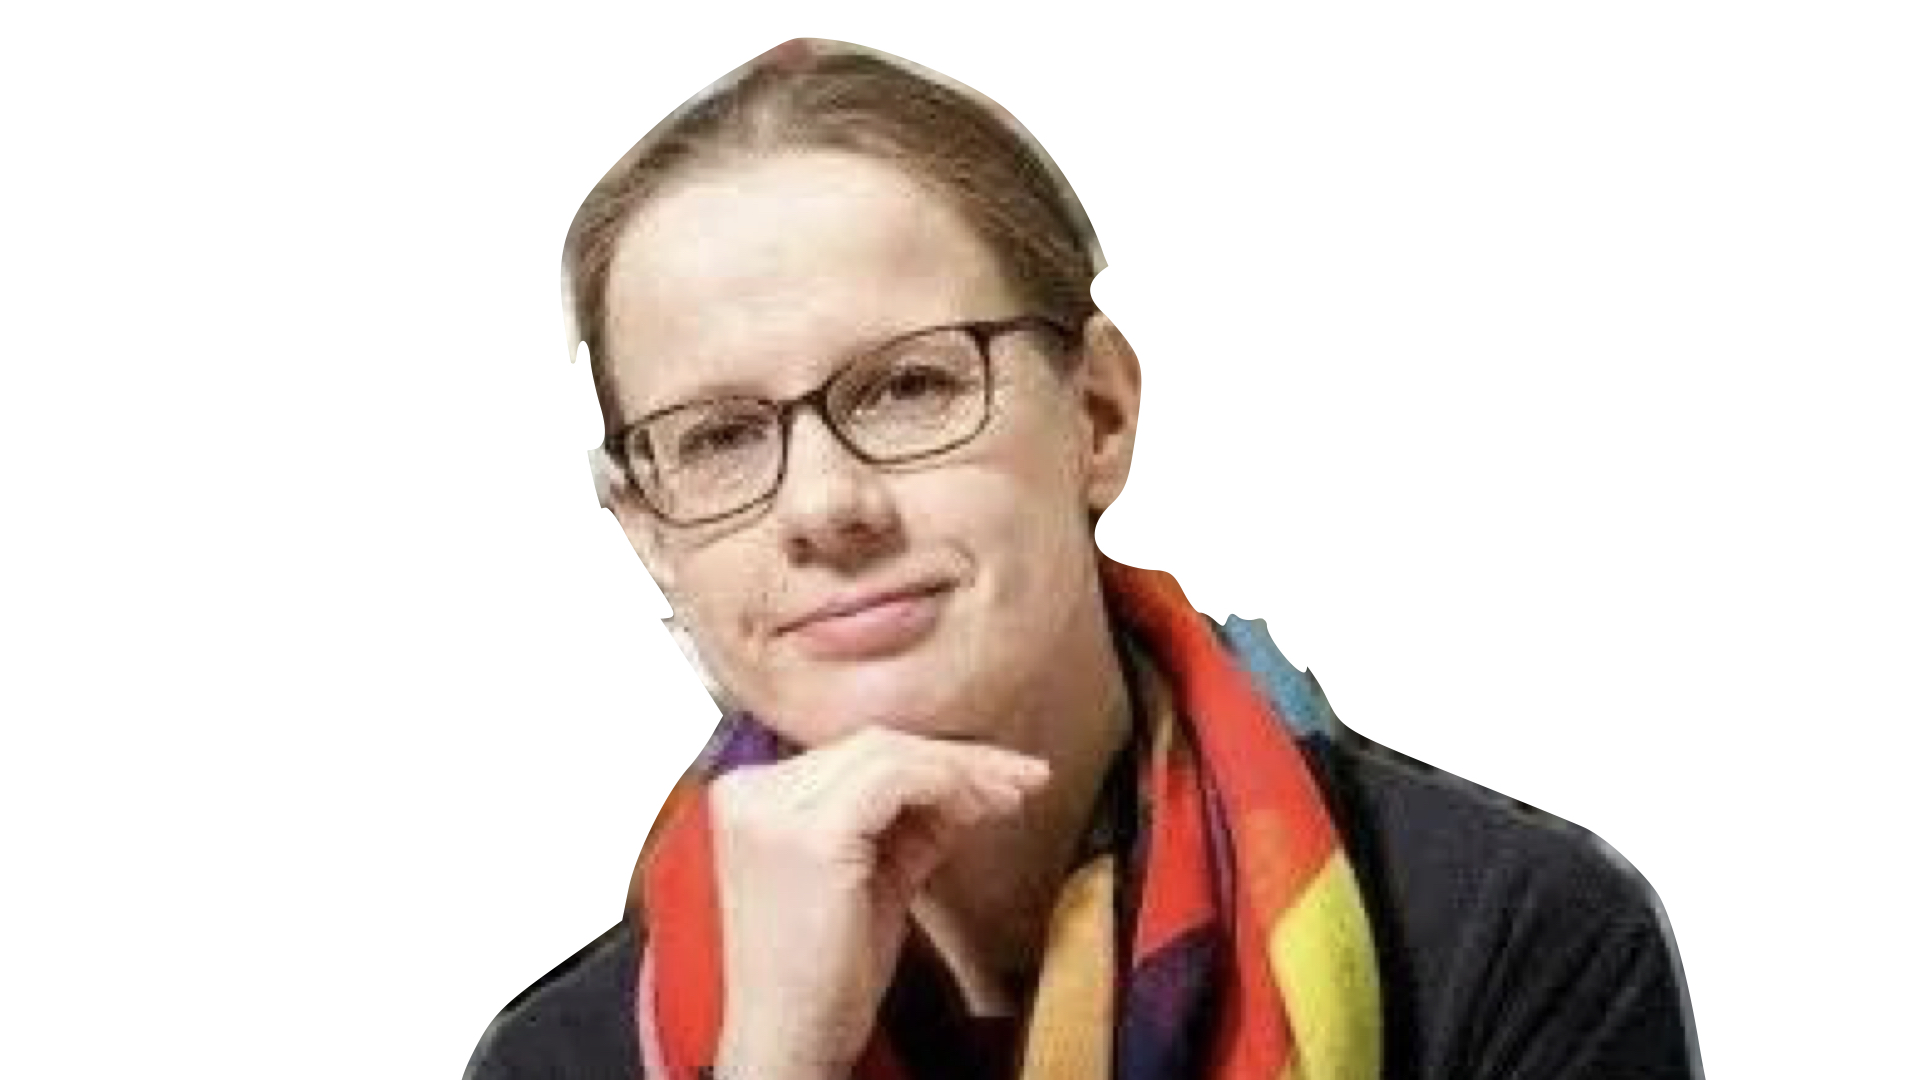
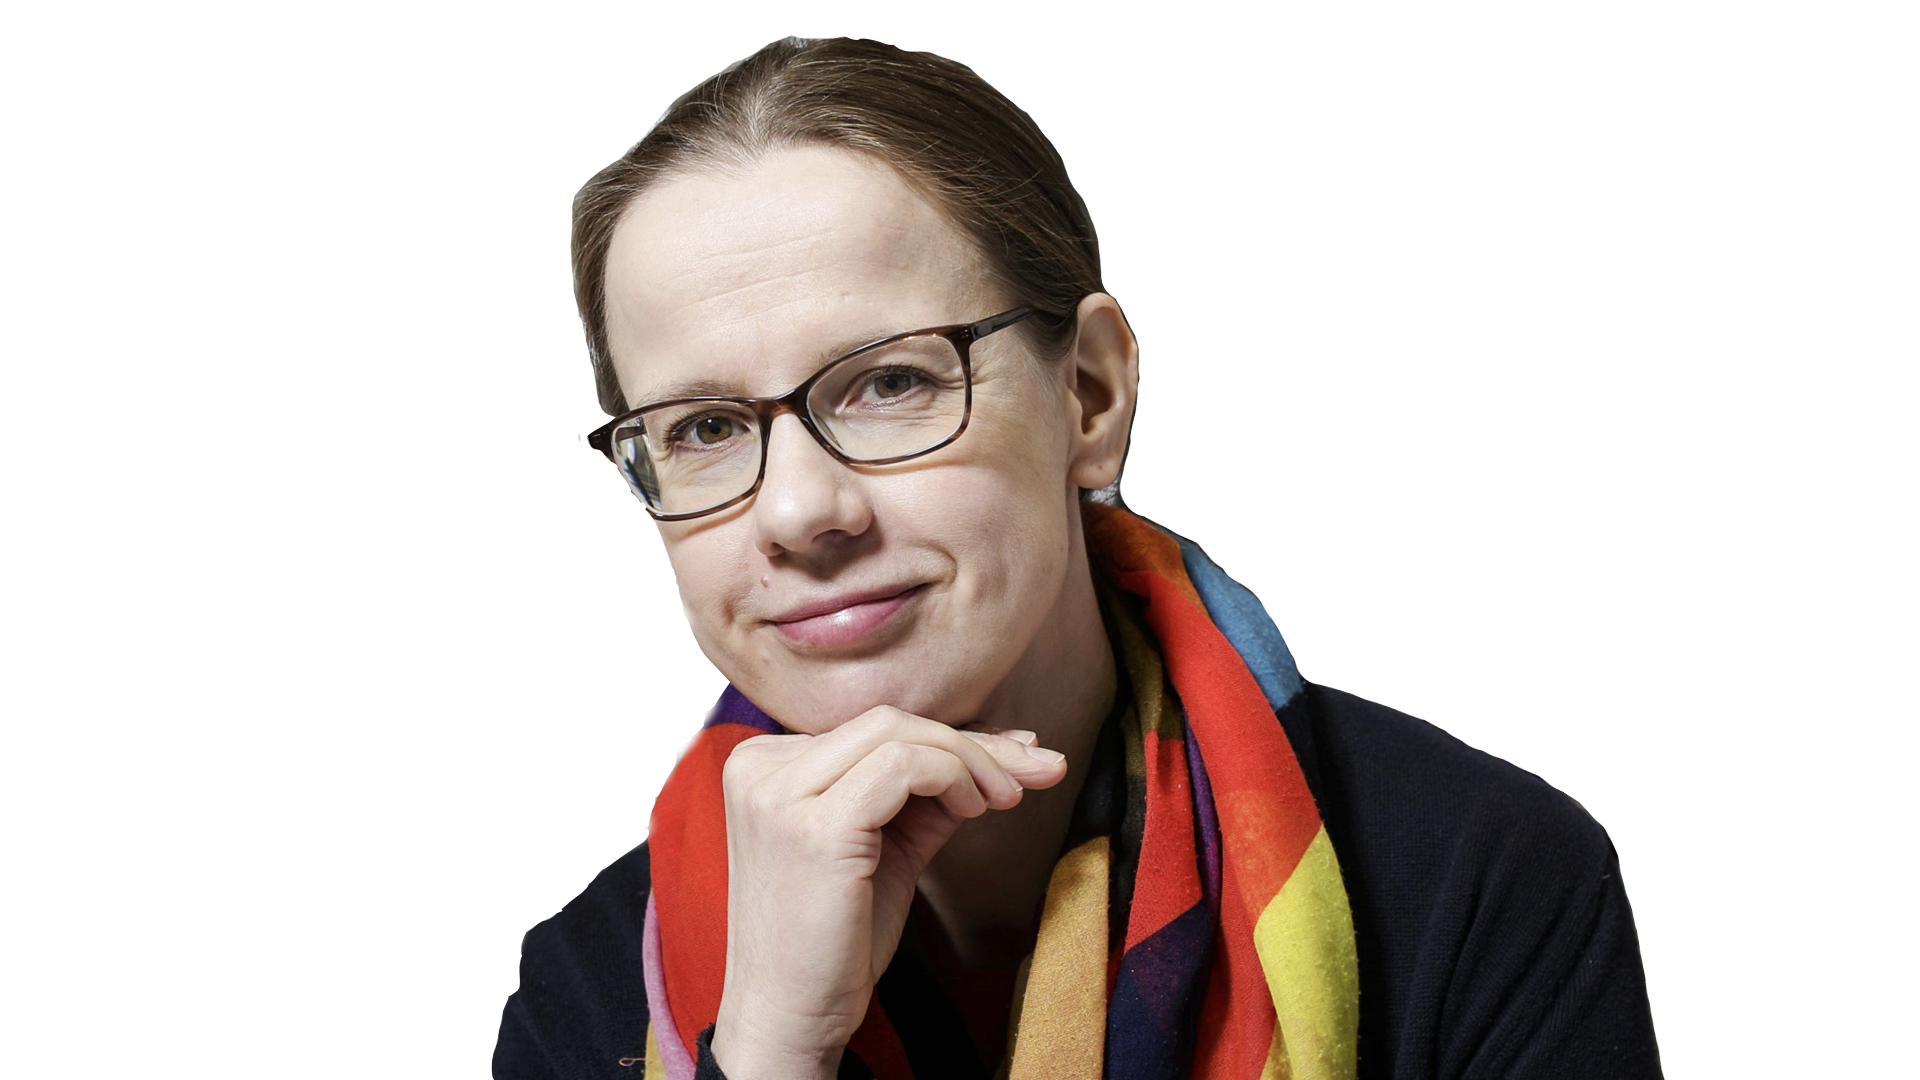
update figs

Changed region(s): [[0.2188, 0.0306, 0.9062, 1.0]]

diff --git a/_pages/groups.md b/_pages/groups.md
@@ -40,8 +40,12 @@ High-performance computing solutions and open-source simulation tools are essent
 
 ## Theoretical Nuclear Physics - Markus Kortelainen
 
+![nuclear](/assets/images/kortelainen_nucl.jpg)
+
 {: .text-justify}
 The research group led by PI Markus Kortelainen focuses on development and application of advanced theoretical models for nuclear structure.  At the core of our work lies nuclear density functional theory and energy density functional-based approaches, which serve as the principal framework for our investigations.
+
+![Nature](/assets/images/kortelainen_nature.jpg){: width="400" .align-right}
 
 {: .text-justify}
 Our central research goal is to achieve a universal and predictive description of the properties of finite nuclei and nuclear matter. To achieve this, we employ a variety of nuclear structure models that provide input for astrophysical processes, such as nucleosynthesis and neutron star physics, as well as for tests of fundamental symmetries in physics. We actively collaborate with experimental groups, offering theoretical insights that help interpret newly measured data.
